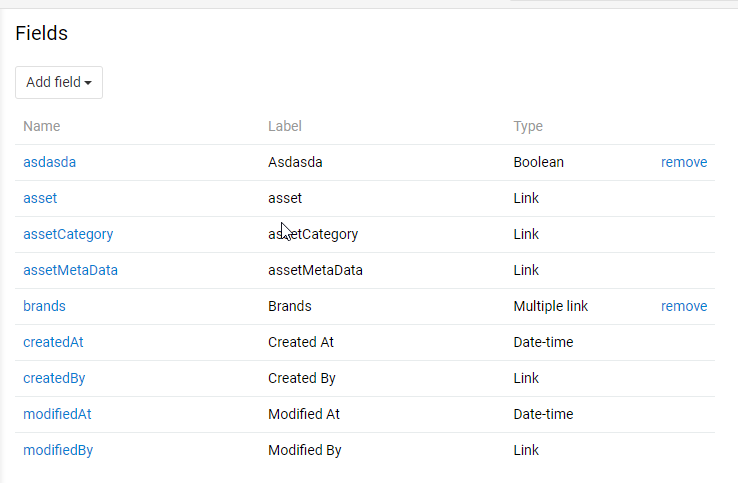
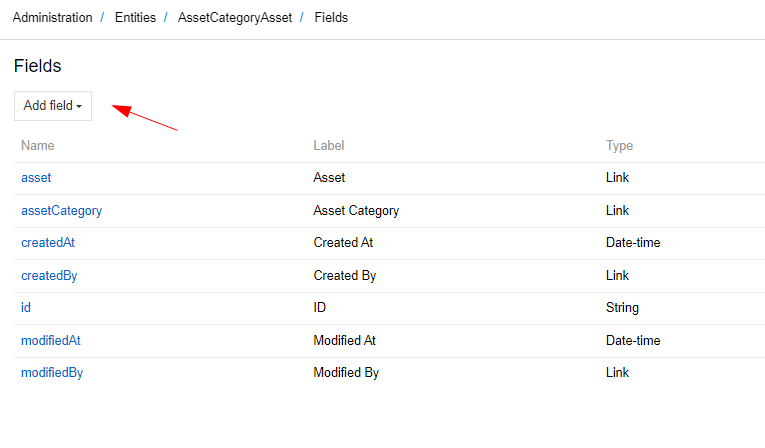
Relation entity

diff --git a/modules/advanced-data-types.md b/modules/advanced-data-types.md
@@ -10,29 +10,15 @@ Alias – allows to link the attribute value to another attribute value. If the 
 
 This attribute type should be used if you need to trasfer to some external system, eg some marketplace, your existing attribute values with a different attribute name/code etc. You have an attribute with a code "hat_size" and it needs to be transfered to the amazon marketplace with a code "headdress_size" and maybe a different name.
 
-## Relationship
+## Relation entity type
 
-For the entities Relationship type is added. Use this entity type if you need to create a many-to-many relationship betweeen two entities and assign additional properties to this relation, what is not possible for a standard many-to-many relation. 
+When you create a many-to-many relationship between two entities, an entity of type Relation is automatically created in the entity manager. The entity name is formed by combining the names of the two entities that form it. By default, the entity has two fields of the link type, which refer to the related base (or hieararchy) entities, as well as the fields id, created/modify at and created/modify by. The Advanced Data Types module provides the ability to edit, configure entities of type Relation and display it as a menu item. If you have this module installed, you can perform the same actions on a Relation entity as you would on a base or hierarchy entity. You can assign additional properties to Relation entity: add new fields, change labels, select Text Filter Fields, Default Order and create new links with other entities.
 
-A good example could be the entity "Product Channels", which is included in the PIM module. This entity links the entities "Products" and "Channels", so that multiple products can be linked with multiple channels. Additionally for the entity "Product Channels" you have the possibility to activate/deactivate some product for a channel. This checkbox is an additional property for a relationship "Product Channels". The Admin can also add any additional properties, if needed.
+A good example could be the entity "Product Channels", which is included in the PIM module. This entity links the entities "Products" and "Channels", so that multiple products can be linked with multiple channels. Additionally for the entity "Product Channels" you have the possibility to activate/deactivate some product for a channel. This checkbox is an additional property for a relation "Product Channels". The Admin can also add any additional properties, if needed.
 
-To find, create and edit them you can go to `Administration / Entities` page. To create entity press `Create entity` button. To edit existing one select the entity and press `Edit` button.
+To find, create and edit entity you can go to `Administration / Entities` page. To create entity press `Create entity` button. To edit existing one select the entity and press `Edit` button.
 
-![Creating assets](_assets/advanced-data-types/creating-assets.png)
-
-### Creating and editing Relationship type entity
-
-When creating a "Relationship" type entity, select "Relationship" as a Type. Then, select entities to be related. As you can see on a picture below you need to have at lease two entities to be related. System name for the entity cannot be changed, but you still can change the singular and plural label for this Relationship.
-
-This entity type, like any other entity type allows you enable/disable this entity, set Default Order, Text Filter Fields, etc. 
-
-![Relationship](_assets/advanced-data-types/relationship.png)
-
-### Adding new fields
-
-To add additional fields for the entity of type "Relationship" go to `Administration / Entity` and press `Fields` for your entity. You see all the fields that this entity has. Some fields are generated automatically, you cannot edit or delete them. To add a new field click on `Add field` and choose the type for your new field.
-
-![additional fields](_assets/advanced-data-types/additional-fields.png)
+![Create an entity](_assets/advanced-data-types/creating-assets.png)
 
 ### Adding new relations
 
@@ -40,8 +26,18 @@ To add a new relation for your entity of type "Relationship"  go to `Administrat
 
 ![a new relation](_assets/advanced-data-types/a-new-relation.png)
 
-If you select the Many-to-One link type, two additional checkboxes appear on the link creation page:
-- `Relationship Entity` - check this option to mark the foreign entity as the target entity for a relationship. All target entities together build up a unique index
-- `Main Relationship Entity` - check this checkbox to mark this foreign entity as the primary entity from which the relative entity should be viewed. Only one of the foreign entities can be selected as the main one.
+For entity of type Relation it is possible to create only many-to-one link with another entity.
 
-![create a new link](_assets/advanced-data-types/create-a-new-link.png)
+### Adding new fields
+
+To add additional fields for the entity of type "Relation" go to `Administration / Entity` and press `Fields` for your entity. You see all the fields that this entity has. Some fields are generated automatically, you cannot edit or delete them. To add a new field click on `Add field` and choose the type for your new field.
+
+![additional fields](_assets/advanced-data-types/additional-fields.png)
+
+### Setting permissions for an entity of type Relation
+
+An entity of type relation inherits the permissions from the two entities it consists of. That is, if the user has permission to create, read and edit the ProductChannel entity, but editing is prohibited for one or both entities (Channel and Product), then the user will not be able to edit the ProductChannel entity either. Thus, in order to have permission to perform some action with an entity of the Relation type, the user must be allowed this action for both the entities that form it, as well as for the Relation entity itself.
+
+To configure permissions for a specific user, you need to add a role to the user and configure the permissions for that role in `Administration / Roles`
+
+![permissions settings](_assets/advanced-data-types/permissions.png)
